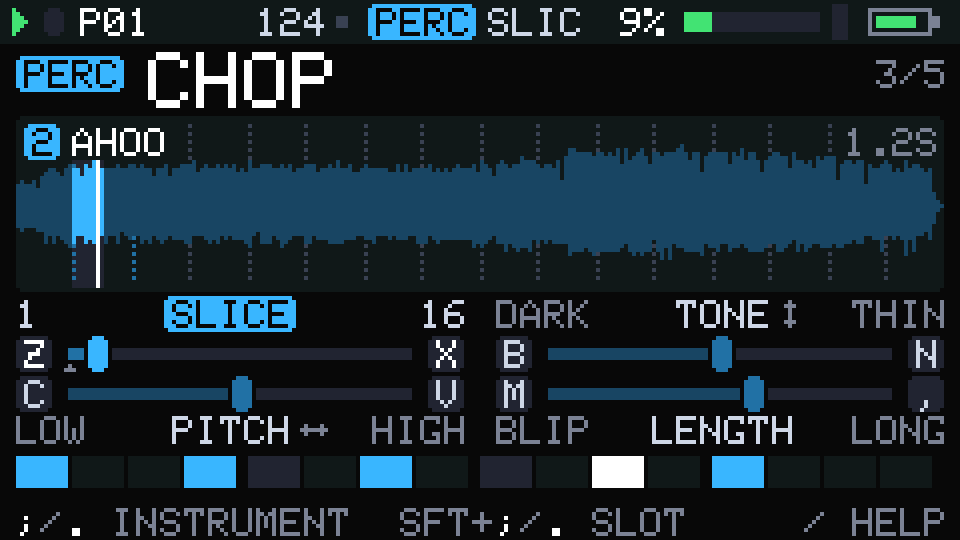
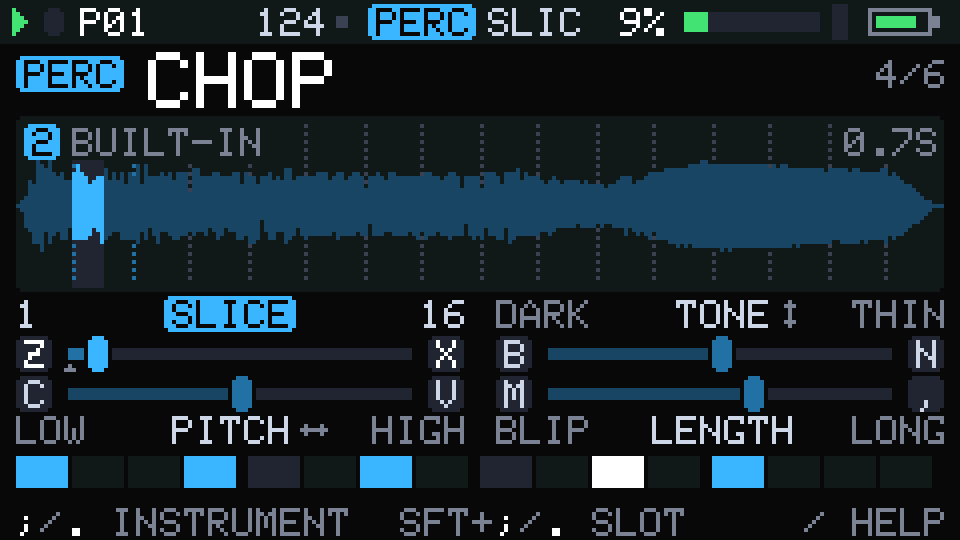
PERC instrument SHAKE (the shaker model); BASSHAUS's PERC plays it
macros/perc/shake.pgm: the voice's SHKR model, four macros each centred on
the model's defaults (TONE DARK..BRIGHT, LENGTH TIGHT..LONG, GRAIN
SAND..BEADS, STROKE SOFT..HARD), tilt X TONE, Y GRAIN; in builtin.txt after
TAP and TRAIL. macro_audit: loudness range 7.7 dB, no hot point, no dead
travel, no enum jump. BASSHAUS's PERC moves from TRAIL's zap end to SHAKE at
the middle of every macro: its stem is the CLASSIC shaker, bit for bit
(centroid 1.6 -> 7.9 kHz against stage G). itest_golden: the two BASSHAUS
instrument hashes retaken, CLASSIC unchanged. demo_compare --wav-track.
Sampler screenshots retaken (CHOP is 4/6).

Claude-Session: https://claude.ai/code/session_0184BPLkX1vesFQsqL6SSkXY

Changed region(s): [[0.0, 0.237, 1.0, 0.5333], [0.9062, 0.0889, 1.0, 0.1778], [0.7188, 0.0296, 0.75, 0.0593]]

diff --git a/host/tools/demo_compare.cpp b/host/tools/demo_compare.cpp
@@ -5,7 +5,7 @@
 //
 //   demo_compare --dump DIR
 //       writes every demo as built now (raw Project bytes) to DIR/demoN.prj
-//   demo_compare --compare DIR [--demo N] [--pattern P|song] [--song] [--wav WAVDIR]
+//   demo_compare --compare DIR [--demo N] [--pattern P|song] [--song] [--wav WAVDIR [--wav-track T]]
 //       renders each pattern of each demo twice, from DIR/demoN.prj ("before")
 //       and as built now ("after"), through the stereo engine with the stem tap
 //       (host/common/bounce.h), and prints per track and for the mix: RMS and
@@ -15,7 +15,8 @@
 //       faults (NaN / absurd signal) and the ducker (lowest and mean gain over
 //       the render, and the bass stem's level just after the kick against just
 //       before it). With --wav, writes the mixes as 16-bit WAVs:
-//       WAVDIR/demoN_pP_before.wav / _after.wav (song: _song_).
+//       WAVDIR/demoN_pP_before.wav / _after.wav (song: _song_); --wav-track T also
+//       writes track T's dry stem, WAVDIR/demoN_pP_TRACK_before.wav / _after.wav.
 //   demo_compare --fit FILE --track T --pattern P [--top K] [--grid G] [--only NAME]
 //       FILE is a CLASSIC project (from --dump). For every built-in instrument
 //       of track T, a grid of macro positions (G levels per macro) is ranked by
@@ -279,16 +280,16 @@ void printRow(const char* what, const Features& a, const Features& b) {
               a.high, b.low, b.mid, b.high);
 }
 
-void writeWav(const std::string& path, const Render& r) {
-  std::vector<int16_t> pcm(r.mix[0].size() * 2);
-  for (size_t i = 0; i < r.mix[0].size(); ++i) {
-    pcm[2 * i] = int16_t(std::lround(double(r.mix[0][i]) * 32768.0));
-    pcm[2 * i + 1] = int16_t(std::lround(double(r.mix[1][i]) * 32768.0));
-  }
+void writeWav(const std::string& path, const std::vector<float> (&lr)[2]) {
+  std::vector<int16_t> pcm(lr[0].size() * 2);
+  for (size_t i = 0; i < lr[0].size(); ++i)
+    for (size_t c = 0; c < 2; ++c)
+      pcm[2 * i + c] = int16_t(std::clamp(std::lround(double(lr[c][i]) * 32768.0), -32768L, 32767L));
   if (!wav::write(path.c_str(), pcm, int(kSr), 2)) std::fprintf(stderr, "cannot write %s\n", path.c_str());
 }
 
-int compare(const std::string& dir, int onlyDemo, int onlyPattern, bool songToo, const std::string& wavDir) {
+int compare(const std::string& dir, int onlyDemo, int onlyPattern, bool songToo, const std::string& wavDir,
+            int wavTrack) {
   static Project before, after;
   int bad = 0;
   for (int d = 0; d < demo::count(); ++d) {
@@ -357,8 +358,12 @@ int compare(const std::string& dir, int onlyDemo, int onlyPattern, bool songToo,
         mkdirs(wavDir);
         const std::string stem =
             wavDir + "/demo" + std::to_string(d) + (pt < 0 ? std::string("_song") : "_p" + std::to_string(pt + 1));
-        writeWav(stem + "_before.wav", a);
-        writeWav(stem + "_after.wav", b);
+        writeWav(stem + "_before.wav", a.mix);
+        writeWav(stem + "_after.wav", b.mix);
+        if (wavTrack >= 0) {   // the track's own stem too (dry: without the FX returns)
+          writeWav(stem + "_" + kTrackNames[wavTrack] + "_before.wav", a.trk[wavTrack]);
+          writeWav(stem + "_" + kTrackNames[wavTrack] + "_after.wav", b.trk[wavTrack]);
+        }
       }
     }
   }
@@ -550,7 +555,7 @@ int inverse(int track, const char* name, int m, int param, const uint8_t* pos, c
 void usage() {
   std::fprintf(stderr,
                "usage: demo_compare --dump DIR\n"
-               "       demo_compare --compare DIR [--demo N] [--pattern P|song] [--song] [--wav WAVDIR]\n"
+               "       demo_compare --compare DIR [--demo N] [--pattern P|song] [--song] [--wav WAVDIR [--wav-track T]]\n"
                "       demo_compare --fit FILE --track T --pattern P [--top K] [--grid G] [--only NAME]\n"
                "                    [--try NAME:A,B,C,D ...]\n"
                "       demo_compare --inverse NAME --track T --macro M --param P --pos A,B,C,D --values V,V,..\n");
@@ -560,7 +565,7 @@ void usage() {
 
 int main(int argc, char** argv) {
   std::string dump, cmp, fitFile, wavDir;
-  int demoN = -1, pattern = -1, track = -1, top = 30, grid = 9;
+  int demoN = -1, pattern = -1, track = -1, top = 30, grid = 9, wavTrack = -1;
   bool song = false, songOnly = false;
   const char* only = nullptr;
   const char* invName = nullptr;
@@ -578,6 +583,7 @@ int main(int argc, char** argv) {
     else if (!std::strcmp(a, "--compare")) cmp = next();
     else if (!std::strcmp(a, "--fit")) fitFile = next();
     else if (!std::strcmp(a, "--wav")) wavDir = next();
+    else if (!std::strcmp(a, "--wav-track")) wavTrack = std::atoi(next());
     else if (!std::strcmp(a, "--demo")) demoN = std::atoi(next());
     else if (!std::strcmp(a, "--pattern")) {
       const char* v = next();
@@ -627,7 +633,7 @@ int main(int argc, char** argv) {
   if (!cmp.empty()) {
     // --pattern song: the song chain only; --song: every pattern (or --pattern P) and the song
     const bool onlySong = songOnly && pattern < 0;
-    return compare(cmp, demoN, onlySong ? kNumPatterns : pattern, song, wavDir);
+    return compare(cmp, demoN, onlySong ? kNumPatterns : pattern, song, wavDir, wavTrack);
   }
   if (invName) return inverse(track, invName, invMacro, invParam, invPos, invValues);
   if (!fitFile.empty()) {

diff --git a/lib/pg/src/pg/macro/builtin_data.cpp b/lib/pg/src/pg/macro/builtin_data.cpp
@@ -9,7 +9,7 @@ namespace pg {
 namespace macro {
 namespace detail {
 
-extern const int kBuiltinCount = 27;
+extern const int kBuiltinCount = 28;
 
 extern const MacroSet kBuiltin[] = {
     // kick/boom.pgm
@@ -297,6 +297,30 @@ extern const MacroSet kBuiltin[] = {
       0x030d42eeu, 0x0445c3e8u, 0x030d4000u, 0x0445c0fau, 0x03a981f4u, 0x048442eeu, 0x04e203e8u, 0x057e4000u,
       0x067840fau, 0x077241f4u, 0x0733c2eeu, 0x0639c3e8u, 0x00000000u, 0x075303e8u, 0x00000000u, 0x00fa03e8u,
       0x00000000u, 0xfec783e8u, 0x00fa0000u, 0x06b6c3e8u, 0x00000000u, 0x027103e8u, 0x00000000u, 0xffa243e8u}},
+    // perc/shake.pgm
+    {5, 4, 13, 52, 0, 0, 0, 3,
+     {0x90, 0x92},   // tilt x, y
+     0x511a, "SHAKE",
+     "family: OPPOSITES.",
+     "A shaker on the SHKR model.", 0,   // voice kind
+     0x010000ffu, {4, 64, 64, 64, 64, 64, 64, 32, 0, 0, 0, 0, 0, 0, 0, 0, 0, 0, 0, 0, 0, 0, 0, 0, 108, 0, 0, 0, 0, 0, 0, 0},
+     {{"TONE", "DARK", "BRIGHT", "", 500, 0, 3},
+      {"LENGTH", "TIGHT", "LONG", "", 500, 3, 1},
+      {"GRAIN", "SAND", "BEADS", "", 500, 4, 4},
+      {"STROKE", "SOFT", "HARD", "", 500, 8, 5}},
+     {},
+     {},
+     {{0, 255, 0, 9, 4}, {1, 255, 0, 16, 5}, {3, 255, 0, 48, 4}},
+     {{1, 112, 0, 3}, {3, 113, 3, 3}, {6, 113, 6, 3}, {2, 112, 13, 3}, {5, 112, 21, 3}, {3, 113, 24, 3}, {6, 113, 27, 3}, {2, 113, 30, 3},
+      {4, 112, 33, 3}, {2, 113, 36, 3}, {7, 112, 39, 3}, {6, 113, 42, 3}, {1, 113, 45, 3}},
+     {},
+     {0x00000000u, 0x03e801f4u, 0x07c063e8u, 0x01770000u, 0x000001f4u, 0xff4483e8u, 0xfe2b4000u, 0x000001f4u,
+      0x017703e8u, 0xfff83000u, 0x000001f4u, 0x000fa2eeu, 0x002713e8u, 0x00000000u, 0x03e801f4u, 0x079183e8u,
+      0x00465000u, 0x001f40fau, 0x000001f4u, 0xffd8f2eeu, 0xffc953e8u, 0x00000000u, 0x03e801f4u, 0x06b6c3e8u,
+      0xfdecc000u, 0x000001f4u, 0x03a983e8u, 0x01388000u, 0x000001f4u, 0xfd8f03e8u, 0x00000000u, 0x000001f4u,
+      0x00fa03e8u, 0x06b6c000u, 0x03e801f4u, 0x000003e8u, 0x00bb8000u, 0x000001f4u, 0xff8303e8u, 0x009c4000u,
+      0x01f401f4u, 0x057e43e8u, 0xfe2b4000u, 0x000001f4u, 0x027103e8u, 0xff254000u, 0x000001f4u, 0x00dac3e8u,
+      0x0007d000u, 0x000001f4u, 0xffc182eeu, 0xff8ad3e8u}},
     // perc/chop.pgm
     {5, 4, 9, 38, 0, 0, 0, 0,
      {0x91, 0x92},   // tilt x, y

diff --git a/lib/pg/src/pg/demo/demo_basshaus.cpp b/lib/pg/src/pg/demo/demo_basshaus.cpp
@@ -8,7 +8,7 @@
 // and glides between them; ROAD itself stays the player's in the jam
 // patterns and moves only in the intro, build and outro. Tight punchy kick
 // (BOOM), clap (HYPE) layered with a short wood snare (WOOD), shuffled hats,
-// heavy ducking, sparse M1-style organ stabs (KEYS).
+// heavy ducking, sparse M1-style organ stabs (KEYS), a shaker (SHAKE).
 // Every pattern is four bars (64 steps); the riff is two bars. Instruments
 // and macro positions were chosen by measurement against the CLASSIC version
 // (host/tools/demo_compare, docs/STATE.md stage G).
@@ -18,7 +18,7 @@
 //   P3 DROP 2   riff A/B alternating, extra perc, more organ
 //   P4 BREAK    no kick: held organ chords, one long LFO growl per bar, clap build
 //   P5 BUILD    + clap/snare, open hats; the riff opens; snare roll in bar 4
-//   P6 INTRO    kick, hats, a ticking perc; the riff plain, ROAD opening
+//   P6 INTRO    kick, hats, the shaker; the riff plain, ROAD opening
 //   P7 OUTRO    kick, hats and the riff closing down
 //   P8 TOOL     drums only (jam over it)
 #include "demo_songs.h"
@@ -243,7 +243,7 @@ void buildBassHaus(const Engine& engine, Project& p) {
   instrument(p, CP, "HYPE", 135, 0);              // MORE 53 %
   instrument(p, CH, "TICK", 151, 63, 111);
   instrument(p, OH, "BLAST", 127, 23);
-  instrument(p, PC, "TRAIL", 230, 0, 255);        // the zap end, high and dirty: a ticking texture (was a shaker)
+  instrument(p, PC, "SHAKE", 127, 127, 127, 127); // the middle of every macro: the CLASSIC shaker exactly
   instrument(p, BS, "ROAD", kRoadBase, kDirtBase, kMoveBase);   // ROAD 55 %: past HOLLOW toward GROWL
   instrument(p, LD, "KEYS", 0, 0);                // the organ
 
@@ -254,7 +254,7 @@ void buildBassHaus(const Engine& engine, Project& p) {
   mix(p, CP, 115, 64, 0, 36, 10);
   mix(p, CH, 96, 58, 0, 6, 0);
   mix(p, OH, 84, 70, 0, 9, 40);
-  mix(p, PC, 42, 76, 12, 20, 30);
+  mix(p, PC, 72, 76, 12, 20, 30);   // SHAKE plays +5.9 dB (lvl 108): 72 x 108 / 86 = the CLASSIC 90
   mix(p, BS, 104, 64, 0, 0, 120);
   mix(p, LD, 117, 64, 40, 40, 96);
 

diff --git a/host/itests/itest_golden.cpp b/host/itests/itest_golden.cpp
@@ -81,12 +81,13 @@ Case g_cases[] = {
     {"classic acidjam song mono 44k, v1 file", 0, -1, true, 44100.0f, 0x17a76a05b8e3e21bull, true, true},
     {"classic basshaus song mono 44k, v1 file", 1, -1, true, 44100.0f, 0xd59fda34bfb95bd7ull, true, true},
     {"classic warehous song stereo 44k, v1 file", 2, -1, false, 44100.0f, 0x2a552b7e908ced43ull, true, true},
-    // the firmware's demos with instruments and motion, taken at stage G (host build, GCC x86-64)
+    // the firmware's demos with instruments and motion, taken at stage G (host build, GCC x86-64);
+    // BASSHAUS's retaken when its PERC track moved from TRAIL to SHAKE (the shaker instrument)
     {"acidjam song mono 44k", 0, -1, true, 44100.0f, 0xa0d490e0860a3f1bull, false, false},
     {"acidjam p1 stereo 44k", 0, 0, false, 44100.0f, 0xc920f317890377bcull, false, false},
     {"acidjam p2 stereo 32k", 0, 1, false, 32000.0f, 0x5faae11e6319a8afull, false, false},
-    {"basshaus p1 stereo 44k", 1, 0, false, 44100.0f, 0x9fc86c9cb7c057d7ull, false, false},
-    {"basshaus song mono 44k", 1, -1, true, 44100.0f, 0xeb60eaa487e66483ull, false, false},
+    {"basshaus p1 stereo 44k", 1, 0, false, 44100.0f, 0x2002406a5733af88ull, false, false},
+    {"basshaus song mono 44k", 1, -1, true, 44100.0f, 0xbf179c3eb8d15c6full, false, false},
     {"warehous p1 mono 32k", 2, 0, true, 32000.0f, 0x767d8ad60152258full, false, false},
     {"warehous song stereo 44k", 2, -1, false, 44100.0f, 0x5269019f71438c47ull, false, false},
 };

diff --git a/docs/STATE.md b/docs/STATE.md
@@ -290,6 +290,27 @@ Order of work (owner, updated 2026-11-12):
    inside the dead zone), the 65-90 ms feel against the spike's, the 150 ms tap threshold
    against the double tap, and the minimum-ever heap (about 1 KB more static RAM + IRAM, 3.4 KB
    of task stack and control block from the heap).
+   SHAKE (2026-11-13, branch of the shaker worktree): A SHAKER INSTRUMENT FOR PERC, closing stage
+   G's shaker gap. macros/perc/shake.pgm on the voice's SHKR model (the model was always there;
+   no instrument used it), in builtin.txt after TAP and TRAIL. Four Opposites macros, each
+   centred on the model's default values (the CLASSIC BASSHAUS shaker): TONE DARK..BRIGHT (band
+   2.5 -> 11 kHz, resonance and dry hiss with it), LENGTH TIGHT..LONG (8 -> 250 ms), GRAIN
+   SAND..BEADS (dense wide-band grains -> sparse grains through a narrow ringing band),
+   STROKE SOFT..HARD (slow swell, darker -> instant attack, brighter, driven, dry noise); base
+   lvl 108 (+5.9 dB over the perc default, a shaker otherwise sits ~15 dB under TAP); tilt X
+   TONE, Y GRAIN. macro_audit: loudness -30.7..-23.0 dB (range 7.7), peak max -6.8 dBFS, no hot
+   point, no dead travel, no enum jump, travel TONE 15 LENGTH 33 GRAIN 15 STROKE 18, centroid
+   4.2..13.2 kHz. BASSHAUS's PERC is SHAKE with every macro at 127 (fitted with demo_compare:
+   sound distance 0.00, the derived parameters equal the CLASSIC ones) and level 72 (x 108/86 =
+   the CLASSIC 90): its stem is bit-identical to the CLASSIC demo's in every pattern and the song
+   (16-bit WAVs); against stage G's TRAIL: centroid 1.6 -> 7.9 kHz, level within 0.5 dB, the
+   mix within 0.1 dB. itest_golden: the two BASSHAUS instrument hashes retaken (CLASSIC hashes
+   unchanged). demo_compare --wav-track T also writes a track's stem. Sampler screenshots retaken
+   (CHOP is 4/6 in PERC's list; ui_scripts/sampler.txt steps one further). Not done: no metal
+   (a tambourine's jingles ring at fixed partials; the SHKR model is filtered noise, so BEADS is a
+   rattle, not a jingle); every perc parameter latches at the next hit, so a tilt is heard hit by
+   hit. Firmware (cardputer-adv-usb, warning-free): flash 1288151 -> 1290079 (+1928: one set),
+   static RAM unchanged (200892). Host: 84/84. NOT LISTENED TO.
    STAGE G DONE (2026-11-13, branch of the demos worktree): THE DEMOS USE INSTRUMENTS. Every
    track of ACIDJAM, BASSHAUS and WAREHOUS plays a built-in instrument (no CLASSIC track left
    in the firmware), chosen from the whole table by measurement, not by ear: host/tools/
@@ -315,7 +336,8 @@ Order of work (owner, updated 2026-11-12):
    instrument bass was the bare CUT), GROOVE; P1 moves BITE, so SOUND shows a slider moving by
    itself at first power-on (docs/ux/first-*.png, host/ui_scripts/firstboot.txt; UX.md 14, 15).
    Gaps (no instrument covers them; macros/ untouched): BASSHAUS's shaker (no perc instrument
-   reaches above 5 kHz: TRAIL at its zap end, centroid 7.9 kHz -> 1.6 kHz); the rim snares of
+   reached above 5 kHz: TRAIL at its zap end, centroid 7.9 kHz -> 1.6 kHz; CLOSED since by the
+   perc instrument SHAKE, see "SHAKE" below: the track is now the CLASSIC shaker exactly); the rim snares of
    BASSHAUS and WAREHOUS (WOOD, the closest); BASSHAUS's organ is brighter above 2 kHz (KEYS)
    and its growl decays on long notes (ROAD's amp decay; the break's growls are played harder
    to keep the level). Tests: itest_golden keeps every CLASSIC hash, rendering a frozen copy of

diff --git a/macros/INDEX.md b/macros/INDEX.md
@@ -54,18 +54,19 @@ Model v2 (2026-11-13) changed five sets to use its new features, so marks on the
 | BLAST | ohh/blast.pgm | Energy | MORE = brighter, metallic, harder; CALM = a dark, soft, far wash | MORE CALM | ride MORE over 8 bars |
 | TRAIL | perc/trail.pgm | Journey | tom > rim > cowbell > clave > zap, with the pitch continuous across the model changes | TRAIL DROP DIRT | a 16th roll, sweep TRAIL |
 | TAP | perc/tap.pgm | Gesture | a hand drum: soft tap to slap, pressing the skin, letting it ring | HIT PRESS LET | 16ths with accents, PRESS while it rolls |
+| SHAKE | perc/shake.pgm | Opposites | the shaker model, every macro centred on its default: dark to bright, a tight tick to a long wash, sand to beads, a soft swell to a hard driven snap (BASSHAUS's shaker) | TONE LENGTH GRAIN STROKE | 16ths with ghosts, TONE x GRAIN; TIGHT + HARD + BRIGHT is a hat tick |
 | CHOP | perc/chop.pgm | Gesture (sampler) | a sample in 16 slices, each note picks its own; pitch, tone, length | SLICE PITCH TONE LENGTH | a row of notes, each with its own SLICE |
 | TAPE | perc/tape.pgm | Movement (sampler) | the whole sample as tape: speed through stopped into reverse, start point, wear, echo | SPEED START WORN ECHO | long notes, SPEED down for a tape stop |
 | STUTTER | perc/stutter.pgm | Energy (sampler) | one chop repeated at a tempo-synced rate, rising or falling per repeat | RATE RISE TONE LENGTH | single steps, RISE up, RATE by hand |
 
 ## What round 1 is testing
 
-Read a mark as evidence about the family, not only the set. Each family appears on at least two voices (Morph, Movement and Interaction on two, the others on three).
+Read a mark as evidence about the family, not only the set. Each family appears on at least two voices (Morph, Movement and Interaction on two, Opposites on four since SHAKE, the others on three).
 
 | family | the idea of a macro | sets |
 |---|---|---|
 | Gesture | named for what the hand does; coupled physical moves | lead HANDS, kick PUSH, perc TAP |
-| Opposites | an axis between two words, neutral in the middle | bass POLES, snare CRACK, chh TICK |
+| Opposites | an axis between two words, neutral in the middle | bass POLES, snare CRACK, chh TICK, perc SHAKE |
 | Journey | one long road through several distinct sounds, spice on top | bass ROAD, lead VOYAGE, perc TRAIL |
 | Morph | whole patches at the corners of the pad, crossfaded | lead KEYS, kick TRIO |
 | Material / body | what the thing is made of, its size, tension, distance | kick BOOM, snare WOOD, chh ALLOY |

diff --git a/docs/MACROLAB.md b/docs/MACROLAB.md
@@ -506,7 +506,7 @@ Stage D (2026-11-13). The player's side is docs/UX.md 10.3 "Tilt" and docs/MANUA
 
 **Choosing.** Tilt two macros that are fun to sweep together and that change a sound while it plays: a filter and its drive, a pitch and a send. Avoid a macro that only changes on the next note (envelope times, lengths) or that jumps between enum values (a wave, a filter type, a percussion model, an interval): tilt then clicks between steps instead of sweeping. `tilt x none` / `tilt y none` leave an axis unused rather than give it such a macro. `itest_tilt` lists what every built-in set's axes move and checks that each moves a continuous parameter (and jumps at most 4 times over its whole travel).
 
-The built-in sets (docs/STATE.md has the table with the reasons): BOOM `tilt y FAR` (tip it away: the kick goes far), PUSH `tilt y FLICK`, SWARM `tilt x RING` + `tilt y none`, TAP `tilt x PRESS fast` + `tilt y HIT`, TRAIL `tilt x DROP` + `tilt y DIRT`, DICE `tilt x GLITCH fast` + `tilt y none`, POLES `tilt y DIRT`, SURGE `tilt y none`, HANDS `tilt y SHAKE`, KEYS `tilt y none`, DRIFT `tilt x WANDER wide` + `tilt y BLOOM fine`, SWAP `tilt x WARP fast` + `tilt y none`, VOYAGE `tilt x GRIT` + `tilt y SPACE wide`; the others use the default (macro 1 on X, macro 2 on Y, smooth).
+The built-in sets (docs/STATE.md has the table with the reasons): BOOM `tilt y FAR` (tip it away: the kick goes far), PUSH `tilt y FLICK`, SWARM `tilt x RING` + `tilt y none`, TAP `tilt x PRESS fast` + `tilt y HIT`, TRAIL `tilt x DROP` + `tilt y DIRT`, SHAKE `tilt x TONE` + `tilt y GRAIN`, DICE `tilt x GLITCH fast` + `tilt y none`, POLES `tilt y DIRT`, SURGE `tilt y none`, HANDS `tilt y SHAKE`, KEYS `tilt y none`, DRIFT `tilt x WANDER wide` + `tilt y BLOOM fine`, SWAP `tilt x WARP fast` + `tilt y none`, VOYAGE `tilt x GRIT` + `tilt y SPACE wide`; the others use the default (macro 1 on X, macro 2 on Y, smooth).
 
 **In the lab.** The desktop app has no IMU: hold G0 (F1 or Esc) and move the mouse; its position at the press is the zero (0.5 degrees per screen pixel: 70 pixels, 280 window points at 4x, is the `smooth` range), through the same responses and the same UI path as the device. The lab's XY pad is separate: it moves the macros' positions, not an offset.
 

diff --git a/docs/MANUAL.md b/docs/MANUAL.md
@@ -773,7 +773,7 @@ Every track of every demo plays a built-in instrument (SOUND, `9`, shows which; 
 | CLAP | HYPE | HYPE | HYPE |
 | CHH | TICK | TICK | TICK |
 | OHH | SWISH | BLAST | BLAST |
-| PERC | TRAIL (rim) | TRAIL (zap) | TRAIL (clave) |
+| PERC | TRAIL (rim) | SHAKE | TRAIL (clave) |
 | BASS | ACID | ROAD | POLES |
 | LEAD | HANDS | KEYS (organ) | HANDS |
 
@@ -1179,7 +1179,7 @@ Key = FX tab (`o` cycles DUCK, SPACE, MASTER) and column key.
 
 ![CHOP playing slice 1 of a sample](ux/sampler-chop.png)
 
-The PERC track can play a **sample** instead of its percussion sound: step its instrument (`9`, then `.`) past TAP and TRAIL to **CHOP**, **TAPE** or **STUTTER**. The picture becomes the sample's waveform: the part the next note plays is lit in the track colour, dotted lines mark the slices, a white line runs through it while it sounds. Top left: the slot number and the sample's name.
+The PERC track can play a **sample** instead of its percussion sound: step its instrument (`9`, then `.`) past TAP, TRAIL and SHAKE to **CHOP**, **TAPE** or **STUTTER**. The picture becomes the sample's waveform: the part the next note plays is lit in the track colour, dotted lines mark the slices, a white line runs through it while it sounds. Top left: the slot number and the sample's name.
 
 **Twelve slots.** The device keeps up to twelve samples (about 6 seconds each, mono). Each PERC track setting remembers which slot it plays (saved with the project); `shift`+`;` / `shift`+`.` on the instrument page choose the previous / next slot (`ctrl`+`z` takes a run of them back). An **empty slot plays a built-in sound** (three short sung phrases: OHYEAH, HEY and AHOO), and the page says `BUILT-IN`, so the instruments work before you have put anything in.
 
